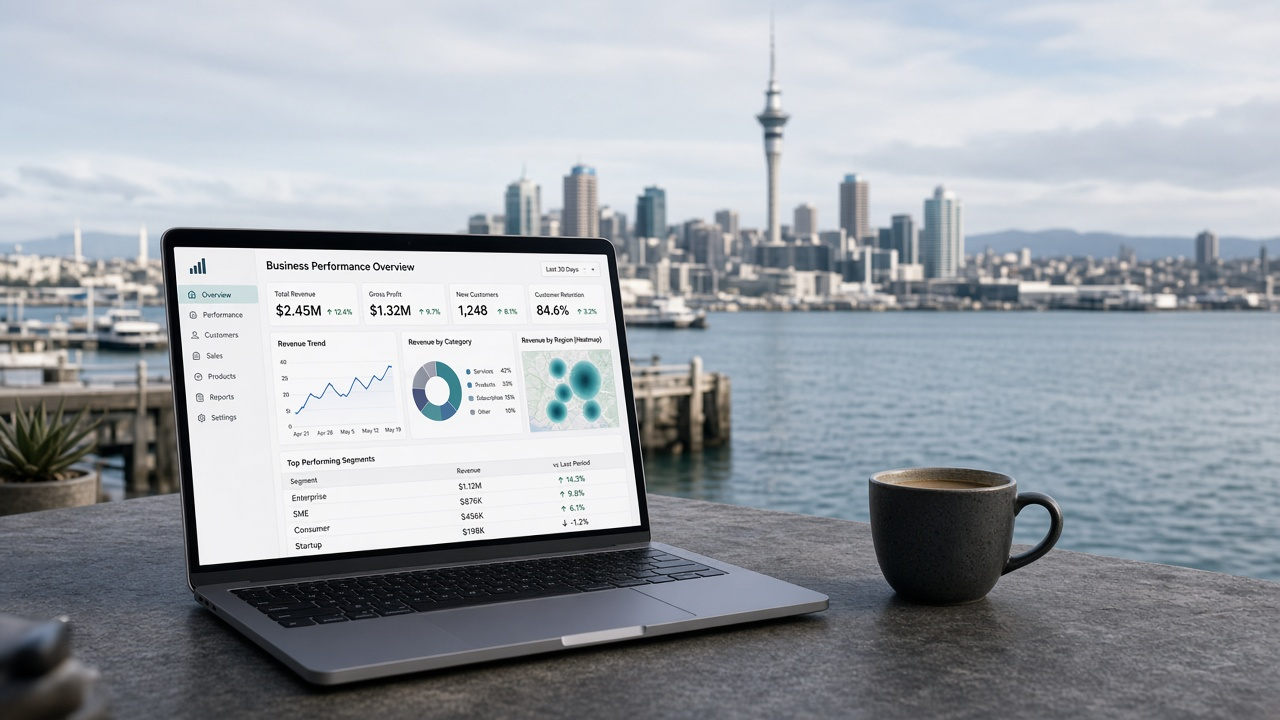
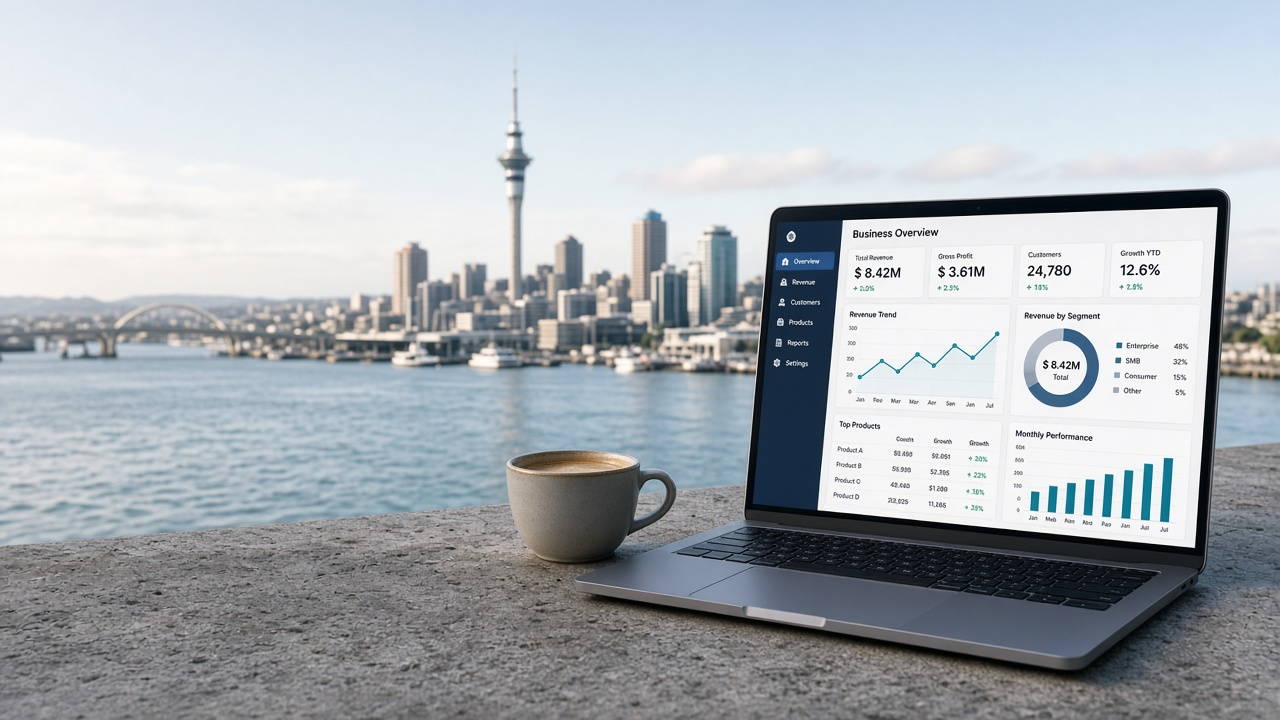
Move hero laptop to the right for clearer top-left text space.

diff --git a/index.html b/index.html
@@ -13,8 +13,8 @@
   <link rel="preconnect" href="https://fonts.googleapis.com">
   <link rel="preconnect" href="https://fonts.gstatic.com" crossorigin>
   <link href="https://fonts.googleapis.com/css2?family=Fraunces:opsz,wght@9..144,500;9..144,600;9..144,700&family=Outfit:wght@400;500;600;700&display=swap" rel="stylesheet">
-  <link rel="stylesheet" href="css/style.css?v=20261122p">
-  <script src="js/script.js?v=20261122p" defer></script>
+  <link rel="stylesheet" href="css/style.css?v=20261122q">
+  <script src="js/script.js?v=20261122q" defer></script>
   <meta http-equiv="Cache-Control" content="no-cache">
 </head>
 <body>
@@ -42,7 +42,7 @@
   <main id="main">
     <section class="hero" id="home">
       <div class="hero-media" aria-hidden="true">
-        <img src="assets/images/hero-auckland-analytics.jpg" alt="" width="1600" height="900" fetchpriority="high">
+        <img src="assets/images/hero-auckland-analytics.jpg?v=2" alt="" width="1600" height="900" fetchpriority="high">
         <div class="hero-veil"></div>
       </div>
       <div class="container hero-copy">

diff --git a/css/style.css b/css/style.css
@@ -144,7 +144,7 @@ button { font: inherit; cursor: pointer; border: 0; background: none; }
   position: absolute; inset: 0; z-index: 0;
 }
 .hero-media img {
-  width: 100%; height: 100%; object-fit: cover; object-position: center 40%;
+  width: 100%; height: 100%; object-fit: cover; object-position: 70% 40%;
   animation: heroZoom 18s ease-out forwards;
 }
 .hero-veil {
